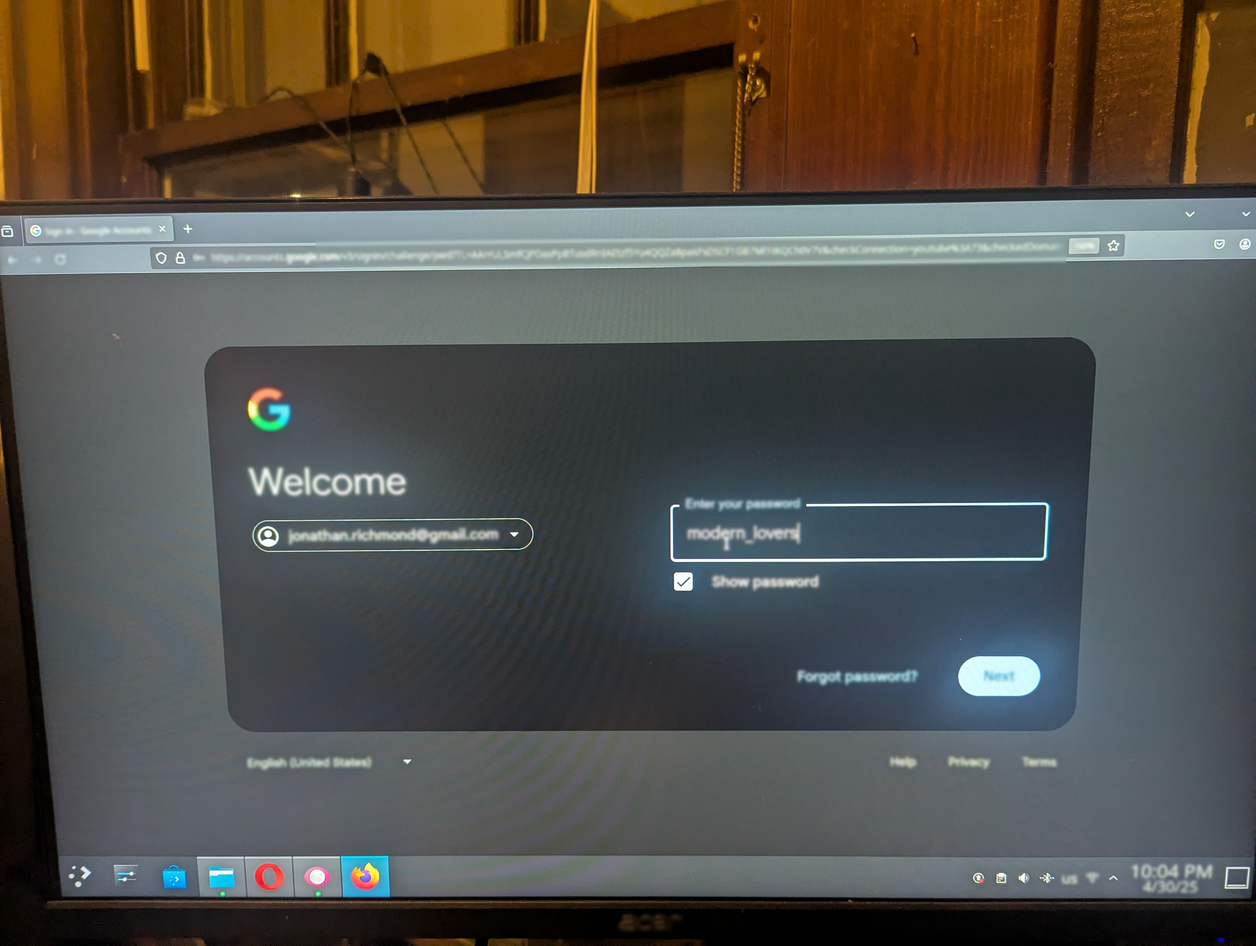
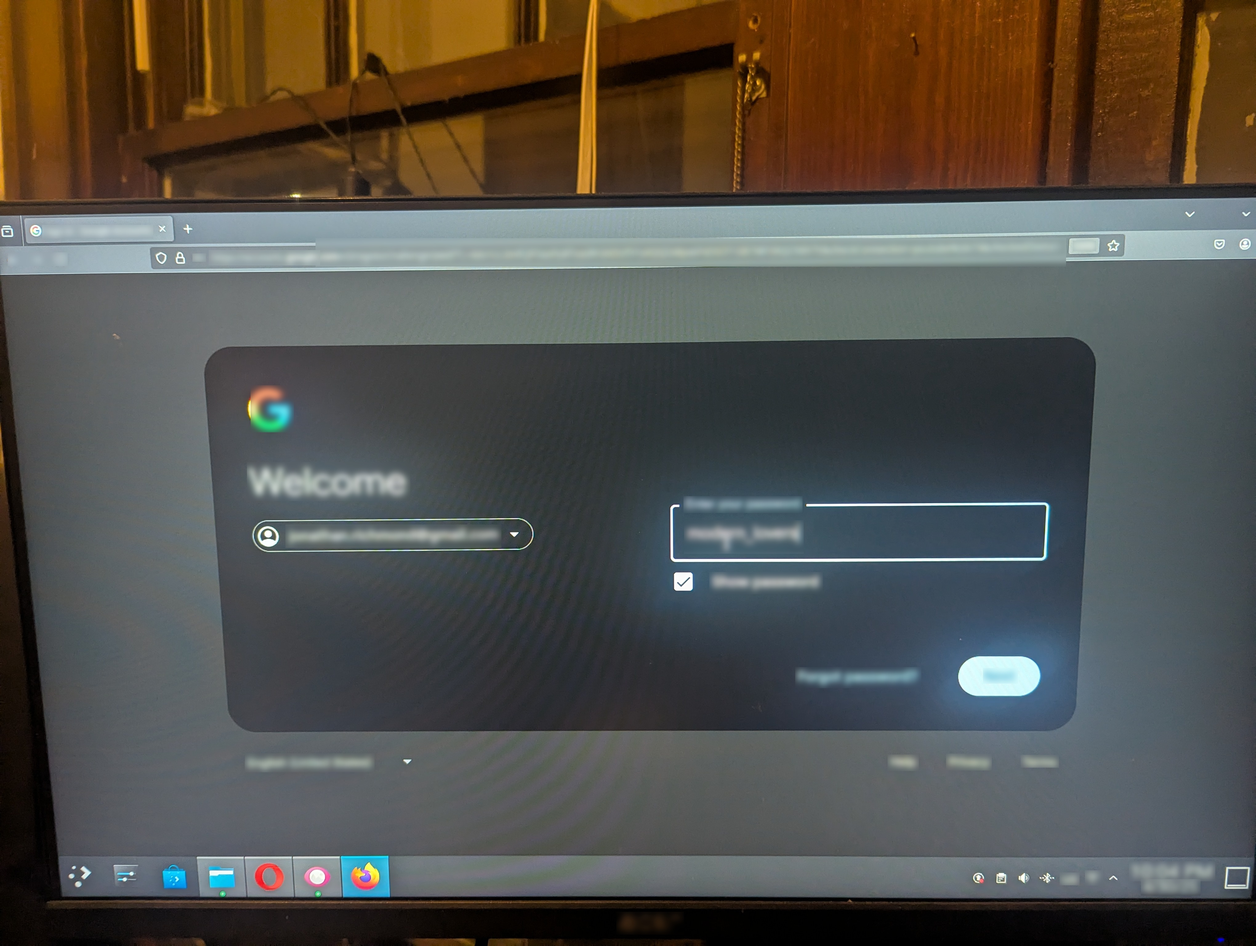
increased kernel size for Gaussian blurring to (71, 71)

diff --git a/pipeline.py b/pipeline.py
@@ -315,7 +315,9 @@ def blur_regions(image, region_tuples, counter: list, filename=None):
             mask = np.zeros(image.shape[:2], dtype=np.uint8)
             int_coords = np.array(poly.exterior.coords, dtype=np.int32)
             cv2.fillPoly(mask, [int_coords], 255)
-            obfuscated = cv2.GaussianBlur(output, (31, 31), 0)
+            obfuscated = cv2.GaussianBlur(
+                output, (71, 71), 0
+            )  # kernel size changed from (31, 31) since some text was still legible
             output[mask == 255] = obfuscated[mask == 255]
 
     return output
